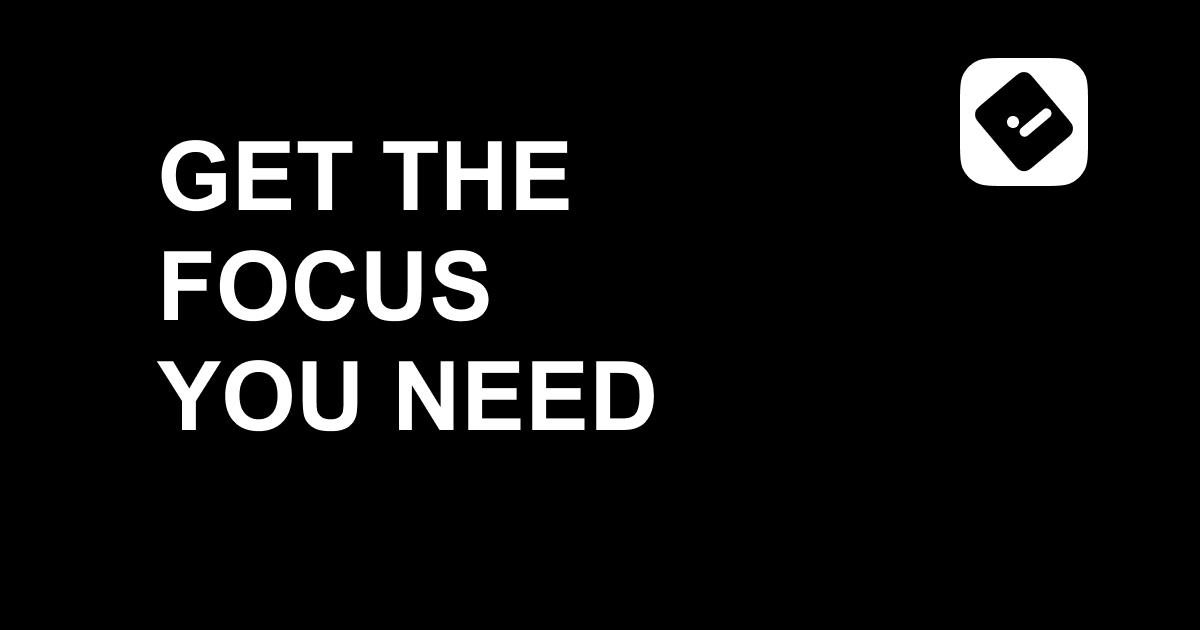
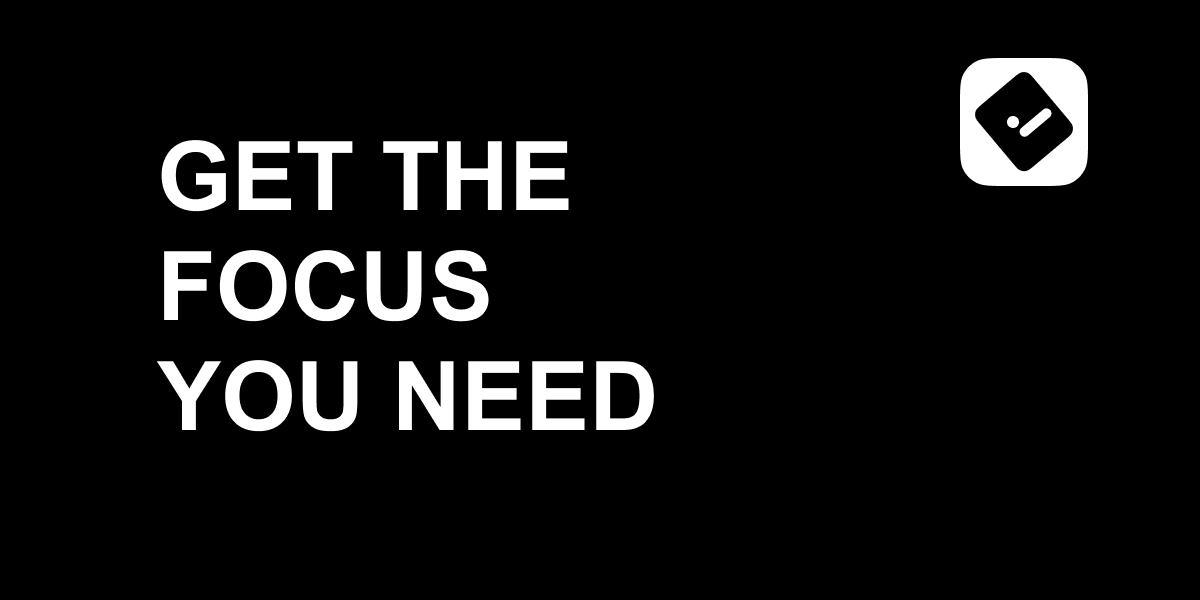
Image 2:1 aspect ratio and twitter meta tags

diff --git a/src/App.vue b/src/App.vue
@@ -16,20 +16,37 @@ export default {
         { charset: "utf-8" },
         { name: "viewport", content: "width=device-width, initial-scale=1" },
         {
-          name: "twitter:card",
-          content: "summary_large_image",
-        },
-        {
           property: "og:title",
           content: "CoList",
         },
         {
           property: "og:description",
           content:
-            "CoList is a todolist reimagined for an intuitive experience",
+            "CoList is a platform for creators, developers and daily users reimagined from the ground up with only the most necessary features you need.",
         },
         {
           property: "og:image",
+          content: "https://co-list.vercel.app/opengraph.jpg",
+        },
+        {
+          name: "twitter:card",
+          content: "summary_large_image",
+        },
+        {
+          name: "twitter:site",
+          content: "@colovskii",
+        },
+        {
+          name: "twitter:title",
+          content: "CoList",
+        },
+        {
+          name: "twitter:description",
+          content:
+            "CoList is a platform for creators, developers and daily users reimagined from the ground up with only the most necessary features you need.",
+        },
+        {
+          name: "twitter:image",
           content: "https://co-list.vercel.app/opengraph.jpg",
         },
       ],
